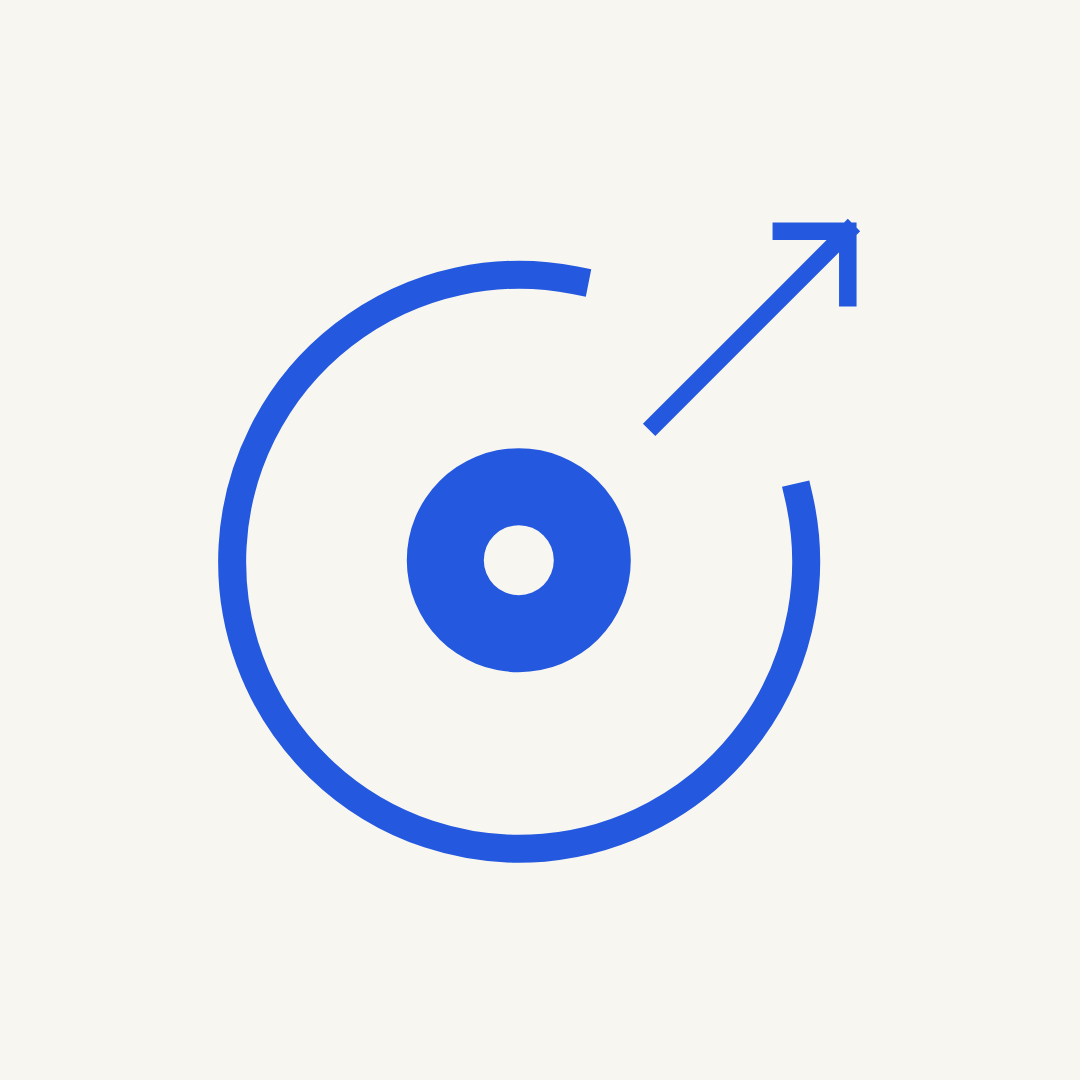
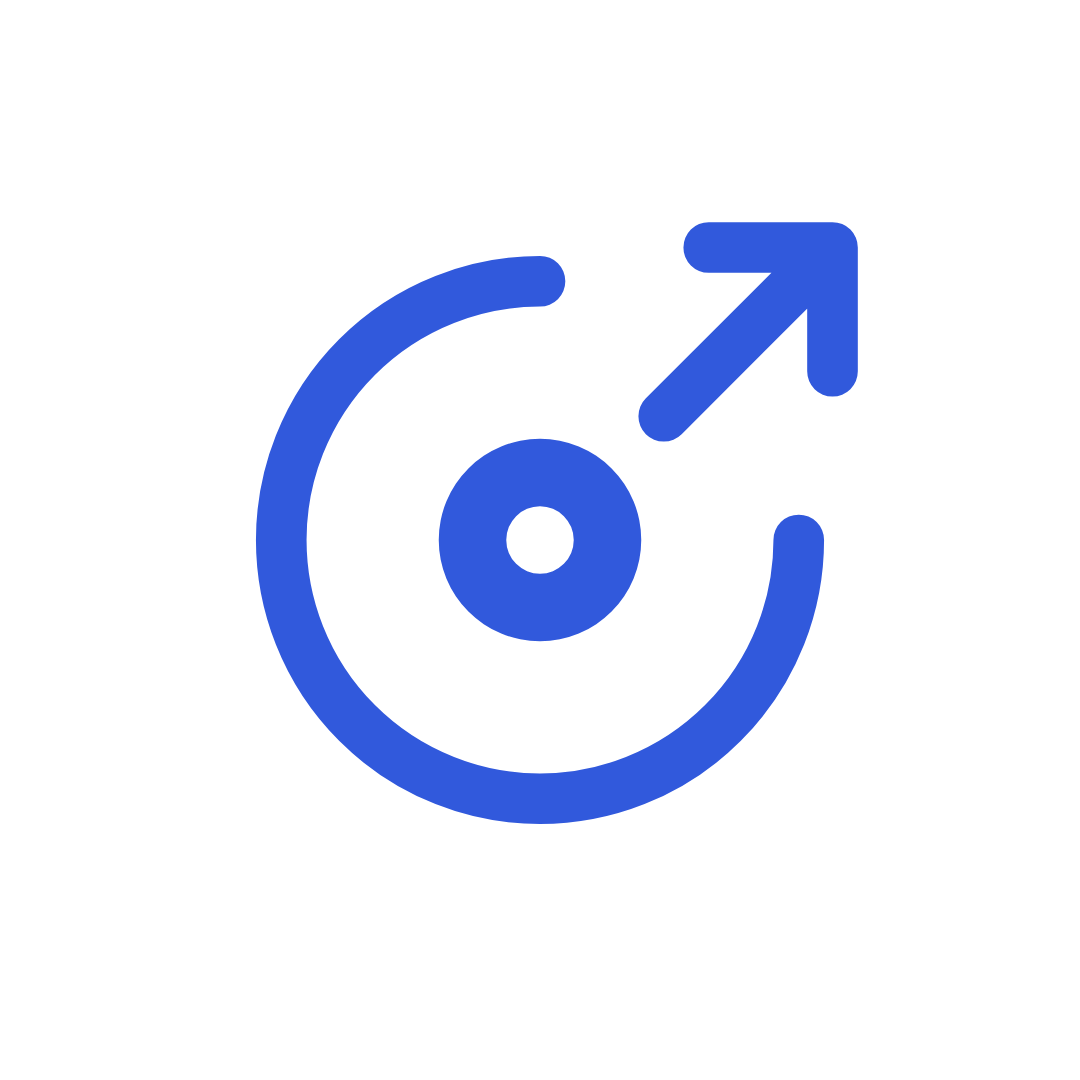
Modernize circular brand and compact site header

diff --git a/como.html b/como.html
@@ -4,11 +4,11 @@
   <meta charset="utf-8"><meta name="viewport" content="width=device-width, initial-scale=1">
   <meta name="description" content="Cómo impulsa OpenSpain sus propuestas: evidencia, competencias, costes, acuerdos y seguimiento.">
   <title>Cómo lo impulsamos — OpenSpain</title>
-  <link rel="icon" href="./favicon.svg" type="image/svg+xml"><link rel="stylesheet" href="./styles.css?v=20261011-contrast"><script type="module" src="./site.js?v=20261011-mobile"></script>
+  <link rel="icon" href="./favicon.svg?v=20261011-wordmark" type="image/svg+xml"><link rel="stylesheet" href="./styles.css?v=20261011-wordmark"><script type="module" src="./site.js?v=20261011-mobile"></script>
 </head>
 <body>
   <a class="skip-link" href="#contenido">Saltar al contenido</a>
-  <header class="site-header"><a class="brand" href="./index.html" aria-label="OpenSpain, inicio"><img src="./openspain-logo.svg" alt="OpenSpain" width="210" height="49"></a><nav aria-label="Navegación principal"><a href="./index.html">Inicio</a><a href="./cambios.html">Cambios</a><a href="./programa.html">Programa</a><a href="./como.html" aria-current="page">Plan de acción</a><a href="./transparencia.html">Transparencia</a><a class="nav-action" href="./participa.html">Participa ↗</a></nav></header>
+  <header class="site-header"><a class="brand" href="./index.html" aria-label="OpenSpain, inicio"><img class="brand-symbol" src="./favicon.svg?v=20261011-wordmark" alt="" width="48" height="48">openspain.</a><nav aria-label="Navegación principal"><a href="./index.html">Inicio</a><a href="./cambios.html">Cambios</a><a href="./programa.html">Programa</a><a href="./como.html" aria-current="page">Plan de acción</a><a href="./transparencia.html">Transparencia</a><a class="nav-action" href="./participa.html">Participa ↗</a></nav></header>
   <main id="contenido">
     <section class="section page-intro compact-intro"><p class="eyebrow">DE LA PROPUESTA AL SIGUIENTE HITO</p><h1>Los cambios <span>hay que explicarlos.</span></h1><p class="page-lead">Qué haremos, en qué plazo y cómo rendiremos cuentas.</p></section>
     <section class="section method-section" id="metodo" aria-labelledby="method-title"><h2 id="method-title">Unir esfuerzos.<br><span>Resolver juntos.</span></h2><p class="section-subtitle">Del problema al acuerdo: evidencia, financiación y evaluación.</p><div class="method-grid"><article><span>01</span><h3>Escuchar y contrastar</h3><p>Definir el problema con datos y con quienes lo viven. Responder a argumentos sin descalificar por ideas o partido.</p></article><article><span>02</span><h3>Diseñar y financiar</h3><p>Identificar competencias, encaje legal, coste y financiación. Comparar alternativas reales.</p></article><article><span>03</span><h3>Construir acuerdos</h3><p>Reconocer aportaciones y registrar discrepancias, responsables y fechas. Sin exigir unanimidad.</p></article><article><span>04</span><h3>Medir y corregir</h3><p>Comprobar resultados y reconocer errores. Cooperar no elimina controles ni responsabilidades.</p></article></div><details class="program-chapter" open><summary>Método completo: evidencia, métricas y presupuesto</summary><div id="method-content" data-program-content="4"></div></details></section>

diff --git a/styles.css b/styles.css
@@ -43,8 +43,10 @@ button:focus-visible, a:focus-visible, input:focus-visible, textarea:focus-visib
   .floating-signup { right: max(12px, env(safe-area-inset-right)); bottom: calc(12px + env(safe-area-inset-bottom)); gap: 10px; padding: 12px 16px; font-size: 13px; }
 }
 @media print { .floating-signup { display: none !important; } }
-.site-header { position: sticky; top: 16px; z-index: 5; max-width: 1320px; width: calc(100% - 48px); margin: 20px auto; min-height: 84px; display: flex; align-items: center; justify-content: space-between; gap: 24px; padding: 14px 28px; border: 1px solid var(--line); border-radius: 24px; background: #fffffff5; backdrop-filter: blur(14px); }
+.site-header { position: sticky; top: 16px; z-index: 5; max-width: 1320px; width: calc(100% - 48px); margin: 20px auto; min-height: 72px; display: flex; align-items: center; justify-content: space-between; gap: 24px; padding: 10px 24px; border: 1px solid var(--line); border-radius: 24px; background: #fffffff5; backdrop-filter: blur(14px); }
 .brand { display: inline-flex; align-items: center; font-size: 28px; font-weight: 800; letter-spacing: -1.5px; }
+.site-header > .brand { gap: 10px; font-size: 34px; letter-spacing: -.06em; line-height: 1; white-space: nowrap; }
+.brand-symbol { display: block; width: 40px; height: 40px; flex-shrink: 0; }
 .brand-light { font-weight: 400; }
 .brand-dot { color: var(--blue); }
 .country-flag { display: block; margin-left: 13px; border-radius: 2px; box-shadow: 0 0 0 1px #15243e12; flex-shrink: 0; }
@@ -76,7 +78,6 @@ h1 > span, h2 > span { font-family: var(--sans); font-weight: 800; font-style: n
 .text-link { font-size: 14px; font-weight: 600; }
 .text-link > span { margin-left: 8px; }
 .text-link:hover { text-decoration: underline; text-underline-offset: 4px; }
-.brand > img { display: block; width: 250px; height: auto; }
 nav a[aria-current="page"]:not(.nav-action) { color: var(--blue); background: #e8eefb; font-weight: 800; }
 nav .nav-action[aria-current="page"] { color: #fff; }
 .page-intro { padding-bottom: 35px; }
@@ -595,9 +596,9 @@ form .button { align-self: flex-start; }
   .evidence-figure { padding: 15px 12px; overflow-x: auto; }
   .evidence-figure svg { width: 560px; max-width: none; }
   .evidence-table table { min-width: 350px; }
-  .site-header { top: 8px; width: calc(100% - 24px); margin-block: 12px; border-radius: 20px; padding-inline: 18px; }
-  .brand > img { width: 220px; }
-  .menu-ready .brand > img { width: clamp(140px, calc(100vw - 150px), 220px); }
+  .site-header { top: 8px; width: calc(100% - 24px); margin-block: 12px; border-radius: 20px; padding-inline: 18px; gap: 8px; }
+  .site-header > .brand { gap: 8px; font-size: clamp(24px, 7vw, 32px); }
+  .brand-symbol { width: 32px; height: 32px; }
   body > main > .hero, .page-intro { width: calc(100% - 24px); margin-top: 12px; padding: 36px 22px; border-radius: 24px; }
   .hero h1 { font-size: clamp(37px, 10vw, 56px); letter-spacing: -.025em; }
   .page-intro h1 { font-size: clamp(36px, 10vw, 54px); letter-spacing: -.025em; }

diff --git a/transparencia.html b/transparencia.html
@@ -4,11 +4,11 @@
   <meta charset="utf-8"><meta name="viewport" content="width=device-width, initial-scale=1">
   <meta name="description" content="Quién impulsa OpenSpain, independencia, financiación y límites. Donaciones no habilitadas.">
   <title>Transparencia — OpenSpain</title>
-  <link rel="icon" href="./favicon.svg" type="image/svg+xml"><link rel="stylesheet" href="./styles.css?v=20261011-contrast"><script type="module" src="./site.js?v=20261011-mobile"></script>
+  <link rel="icon" href="./favicon.svg?v=20261011-wordmark" type="image/svg+xml"><link rel="stylesheet" href="./styles.css?v=20261011-wordmark"><script type="module" src="./site.js?v=20261011-mobile"></script>
 </head>
 <body>
   <a class="skip-link" href="#contenido">Saltar al contenido</a>
-  <header class="site-header"><a class="brand" href="./index.html" aria-label="OpenSpain, inicio"><img src="./openspain-logo.svg" alt="OpenSpain" width="210" height="49"></a><nav aria-label="Navegación principal"><a href="./index.html">Inicio</a><a href="./cambios.html">Cambios</a><a href="./programa.html">Programa</a><a href="./como.html">Plan de acción</a><a href="./transparencia.html" aria-current="page">Transparencia</a><a class="nav-action" href="./participa.html">Participa ↗</a></nav></header>
+  <header class="site-header"><a class="brand" href="./index.html" aria-label="OpenSpain, inicio"><img class="brand-symbol" src="./favicon.svg?v=20261011-wordmark" alt="" width="48" height="48">openspain.</a><nav aria-label="Navegación principal"><a href="./index.html">Inicio</a><a href="./cambios.html">Cambios</a><a href="./programa.html">Programa</a><a href="./como.html">Plan de acción</a><a href="./transparencia.html" aria-current="page">Transparencia</a><a class="nav-action" href="./participa.html">Participa ↗</a></nav></header>
   <main id="contenido">
     <section class="section page-intro compact-intro"><p class="eyebrow">INDEPENDENCIA Y RESPONSABILIDAD</p><h1>También nosotros. <span>Con explicación.</span></h1><p class="page-lead">Iniciativa ciudadana en fase de borrador: no somos un partido constituido, una administración ni un servicio público operativo.</p></section>
     <section class="founder-section" aria-labelledby="founder-title"><div class="founder-identity"><img class="founder-photo" src="./alejandro-acosta.jpg" alt="Retrato de Alejandro Acosta, impulsor de OpenSpain" width="480" height="612" decoding="async"><div><p class="eyebrow">QUIÉN IMPULSA OPENSPAIN</p><h3>Alejandro Acosta</h3><p>Español · Ingeniero de software · Coach</p><small>Presentación facilitada por el impulsor.</small></div></div><div class="founder-message"><h2 id="founder-title">De la queja<br><span>a la acción.</span></h2><p>Convertir preocupaciones en propuestas que se puedan financiar, aplicar y evaluar. El liderazgo inicial no sustituye la revisión técnica ni el debate plural.</p><small>No se afirma respaldo institucional ni credenciales adicionales verificadas por el programa.</small></div></section>

diff --git a/cambios.html b/cambios.html
@@ -4,12 +4,12 @@
   <meta charset="utf-8"><meta name="viewport" content="width=device-width, initial-scale=1">
   <meta name="description" content="Ocho pilares de OpenSpain: corrupción, impuestos, innovación, inversión, talento, simplificación normativa y gasto público, inmigración laboral y vivienda social.">
   <title>Qué queremos cambiar — OpenSpain</title>
-  <link rel="icon" href="./favicon.svg" type="image/svg+xml"><link rel="stylesheet" href="./styles.css?v=20261011-contrast">
+  <link rel="icon" href="./favicon.svg?v=20261011-wordmark" type="image/svg+xml"><link rel="stylesheet" href="./styles.css?v=20261011-wordmark">
   <script type="module" src="./site.js?v=20261011-mobile"></script>
 </head>
 <body>
   <a class="skip-link" href="#contenido">Saltar al contenido</a>
-  <header class="site-header"><a class="brand" href="./index.html" aria-label="OpenSpain, inicio"><img src="./openspain-logo.svg" alt="OpenSpain" width="210" height="49"></a><nav aria-label="Navegación principal"><a href="./index.html">Inicio</a><a href="./cambios.html" aria-current="page">Cambios</a><a href="./programa.html">Programa</a><a href="./como.html">Plan de acción</a><a href="./transparencia.html">Transparencia</a><a class="nav-action" href="./participa.html">Participa ↗</a></nav></header>
+  <header class="site-header"><a class="brand" href="./index.html" aria-label="OpenSpain, inicio"><img class="brand-symbol" src="./favicon.svg?v=20261011-wordmark" alt="" width="48" height="48">openspain.</a><nav aria-label="Navegación principal"><a href="./index.html">Inicio</a><a href="./cambios.html" aria-current="page">Cambios</a><a href="./programa.html">Programa</a><a href="./como.html">Plan de acción</a><a href="./transparencia.html">Transparencia</a><a class="nav-action" href="./participa.html">Participa ↗</a></nav></header>
   <main id="contenido">
     <section class="section page-intro changes-intro"><p class="eyebrow">OCHO PILARES PRÁCTICOS</p><h1>Qué queremos <span>cambiar.</span></h1><p class="page-lead">Ocho prioridades para mejorar España, con medidas concretas y garantías. Propuestas, no reformas aprobadas.</p><a class="text-link" href="./OpenSpain-Programa.pdf" download>Descargar programa completo ↓</a></section>
     <section class="section" id="acciones" aria-labelledby="actions-title"><span id="video-cambios" class="sr-only" aria-hidden="true"></span><h2 id="actions-title" class="sr-only">Ocho pilares. Un programa abierto.</h2><div class="actions-content" data-program-content="actions"><p>Los pilares se cargarán desde el programa. <a href="./PROGRAMA.md">Leer el documento original</a>.</p></div></section>

diff --git a/programa.html b/programa.html
@@ -4,12 +4,12 @@
   <meta charset="utf-8"><meta name="viewport" content="width=device-width, initial-scale=1">
   <meta name="description" content="Explora los 31 ejes del programa ciudadano de OpenSpain: medidas, fuentes, costes pendientes y garantías.">
   <title>Programa ciudadano — OpenSpain</title>
-  <link rel="icon" href="./favicon.svg" type="image/svg+xml"><link rel="stylesheet" href="./styles.css?v=20261011-contrast">
+  <link rel="icon" href="./favicon.svg?v=20261011-wordmark" type="image/svg+xml"><link rel="stylesheet" href="./styles.css?v=20261011-wordmark">
   <script type="module" src="./site.js?v=20261011-mobile"></script><script type="module" src="./app.js?v=20261011-contrast"></script>
 </head>
 <body>
   <a class="skip-link" href="#contenido">Saltar al contenido</a>
-  <header class="site-header"><a class="brand" href="./index.html" aria-label="OpenSpain, inicio"><img src="./openspain-logo.svg" alt="OpenSpain" width="210" height="49"></a><nav aria-label="Navegación principal"><a href="./index.html">Inicio</a><a href="./cambios.html">Cambios</a><a href="./programa.html" aria-current="page">Programa</a><a href="./como.html">Plan de acción</a><a href="./transparencia.html">Transparencia</a><a class="nav-action" href="./participa.html">Participa ↗</a></nav></header>
+  <header class="site-header"><a class="brand" href="./index.html" aria-label="OpenSpain, inicio"><img class="brand-symbol" src="./favicon.svg?v=20261011-wordmark" alt="" width="48" height="48">openspain.</a><nav aria-label="Navegación principal"><a href="./index.html">Inicio</a><a href="./cambios.html">Cambios</a><a href="./programa.html" aria-current="page">Programa</a><a href="./como.html">Plan de acción</a><a href="./transparencia.html">Transparencia</a><a class="nav-action" href="./participa.html">Participa ↗</a></nav></header>
   <main id="contenido">
     <section class="section page-intro compact-intro"><p class="eyebrow">PROGRAMA CIUDADANO / BORRADOR ABIERTO</p><h1>Menos ruido. <span>Más soluciones.</span></h1><p class="page-lead">31 ejes: propuestas, responsables y evaluación. Un borrador abierto, no medidas aprobadas.</p><div class="hero-actions"><a class="button button-dark" href="./OpenSpain-Programa.pdf" download>Descargar programa PDF ↓</a><a class="text-link" href="./OpenSpain-Presentacion.pdf" download>Presentación breve · 1 página ↓</a></div></section>
     <section class="section program-section" id="programa" aria-labelledby="program-title">

diff --git a/participa.html b/participa.html
@@ -4,11 +4,11 @@
   <meta charset="utf-8"><meta name="viewport" content="width=device-width, initial-scale=1">
   <meta name="description" content="Participa en OpenSpain: recibe novedades o prepara una propuesta local. La inscripción no es afiliación ni aval electoral.">
   <title>Participa — OpenSpain</title>
-  <link rel="icon" href="./favicon.svg" type="image/svg+xml"><link rel="stylesheet" href="./styles.css?v=20261011-contrast"><script type="module" src="./site.js?v=20261011-mobile"></script>
+  <link rel="icon" href="./favicon.svg?v=20261011-wordmark" type="image/svg+xml"><link rel="stylesheet" href="./styles.css?v=20261011-wordmark"><script type="module" src="./site.js?v=20261011-mobile"></script>
 </head>
 <body>
   <a class="skip-link" href="#contenido">Saltar al contenido</a>
-  <header class="site-header"><a class="brand" href="./index.html" aria-label="OpenSpain, inicio"><img src="./openspain-logo.svg" alt="OpenSpain" width="210" height="49"></a><nav aria-label="Navegación principal"><a href="./index.html">Inicio</a><a href="./cambios.html">Cambios</a><a href="./programa.html">Programa</a><a href="./como.html">Plan de acción</a><a href="./transparencia.html">Transparencia</a><a class="nav-action" href="./participa.html" aria-current="page">Participa ↗</a></nav></header>
+  <header class="site-header"><a class="brand" href="./index.html" aria-label="OpenSpain, inicio"><img class="brand-symbol" src="./favicon.svg?v=20261011-wordmark" alt="" width="48" height="48">openspain.</a><nav aria-label="Navegación principal"><a href="./index.html">Inicio</a><a href="./cambios.html">Cambios</a><a href="./programa.html">Programa</a><a href="./como.html">Plan de acción</a><a href="./transparencia.html">Transparencia</a><a class="nav-action" href="./participa.html" aria-current="page">Participa ↗</a></nav></header>
   <main id="contenido">
     <section class="section page-intro"><p class="eyebrow">EL SIGUIENTE PASO NO ES UN ESLOGAN.</p><h1>Hazte simpatizante.<br><span>Construyamos juntos.</span></h1><p class="page-lead">Recibe novedades o convierte una preocupación en una propuesta concreta. No necesitas ver ningún vídeo para participar.</p></section>
     <section class="participate" id="participa" aria-labelledby="participate-title">

diff --git a/index.html b/index.html
@@ -6,14 +6,14 @@
   <meta name="theme-color" content="#3159dc">
   <meta name="description" content="OpenSpain: abrir España y ampliar oportunidades. Iniciativa ciudadana independiente, propuestas concretas y rendición de cuentas.">
   <title>OpenSpain — Abrir España. Ampliar oportunidades.</title>
-  <link rel="icon" href="./favicon.svg" type="image/svg+xml">
-  <link rel="stylesheet" href="./styles.css?v=20261011-contrast">
+  <link rel="icon" href="./favicon.svg?v=20261011-wordmark" type="image/svg+xml">
+  <link rel="stylesheet" href="./styles.css?v=20261011-wordmark">
   <script type="module" src="./site.js?v=20261011-mobile"></script>
 </head>
 <body data-page="home">
   <a class="skip-link" href="#contenido">Saltar al contenido</a>
   <header class="site-header">
-    <a class="brand" href="./index.html" aria-label="OpenSpain, inicio"><img src="./openspain-logo.svg" alt="OpenSpain" width="210" height="49"></a>
+    <a class="brand" href="./index.html" aria-label="OpenSpain, inicio"><img class="brand-symbol" src="./favicon.svg?v=20261011-wordmark" alt="" width="48" height="48">openspain.</a>
     <nav aria-label="Navegación principal"><a href="./index.html" aria-current="page">Inicio</a><a href="./cambios.html">Cambios</a><a href="./programa.html">Programa</a><a href="./como.html">Plan de acción</a><a href="./transparencia.html">Transparencia</a><a class="nav-action" href="./participa.html">Participa ↗</a></nav>
   </header>
   <main id="contenido">

diff --git a/README.md b/README.md
@@ -28,7 +28,7 @@ Las seis páginas incluyen un enlace flotante «Hazte simpatizante» a `particip
 
 En móvil y tablet, un botón «Menú» despliega los seis enlaces sin desplazamiento horizontal, con estado accesible y cierre mediante Escape. Sin JavaScript se conserva la navegación visible. Las flechas de enlaces y botones se muestran como SVG monocromos, no como caracteres que puedan convertirse en emojis del sistema.
 
-La cabecera utiliza un logo de 250 píxeles, ajustado entre 140 y 220 en móvil para dejar espacio al menú, navegación de 16 píxeles y estado activo en cápsula; «Plan de acción» enlaza a `como.html`. Los pilares y ejes destacan números grandes en azul, con filtros de la misma marca. «Participa» es la acción principal: azul sobre claro y blanco sobre azul; los botones secundarios usan borde. El cierre azul contrasta con el pie oscuro, manteniendo una composición compacta.
+La cabecera combina el símbolo circular azul, de trazo grueso y redondeado, con «openspain.» en Manrope de peso 800, sin bandera. Comparte el símbolo de `favicon.svg`: mide 40 píxeles en escritorio y 32 en móvil; el nombre pasa de 34 a 24–32 píxeles para dejar espacio al menú. La navegación utiliza 16 píxeles y estado activo en cápsula; «Plan de acción» enlaza a `como.html`. Los pilares y ejes destacan números grandes en azul, con filtros de la misma marca. «Participa» es la acción principal: azul sobre claro y blanco sobre azul; los botones secundarios usan borde. El cierre azul contrasta con el pie oscuro, manteniendo una composición compacta.
 
 El lema de portada es «Abrir España. Ampliar oportunidades.», compartido por la web y el programa PDF. «Open» conecta apertura a personas, ideas y propuestas con menos barreras para vivir y crear y transparencia sobre decisiones y dinero público. Al cambiarlo, actualiza también título y descripción de la web y regenera el PDF.
 
@@ -64,9 +64,9 @@ GitHub Pages sirve los archivos; no ejecuta `npm start` ni genera el PDF. Regene
 
 ## Logo para formularios
 
-`openspain-logo.png` es el logo horizontal con fondo transparente (2400 × 560 píxeles), listo para usar en formularios externos. `openspain-logo.svg` conserva la versión vectorial editable; el texto usa la familia tipográfica del sitio y puede variar si no está instalada. La web publicada sirve ambos archivos desde su raíz.
+`openspain-logo.png` es el logo horizontal anterior con fondo transparente (2400 × 560 píxeles) y bandera, disponible para formularios externos. `openspain-logo.svg` conserva su versión vectorial editable. Estos archivos y la variante clara utilizada en los vídeos no se han rediseñado con el cambio de cabecera. La web publicada sirve ambos archivos desde su raíz.
 
-`openspain-instagram.png` es la variante de perfil de 1080 × 1080, con el símbolo azul original centrado sobre marfil y margen para recorte circular. `openspain-instagram.svg` conserva la fuente. El PNG puede descargarse desde `/openspain-instagram.png`; no incluye texto pequeño ni datos personales.
+`openspain-instagram.png` es la variante de perfil de 1080 × 1080, con el nuevo símbolo azul `#3159dc` sobre blanco y margen para recorte circular. `openspain-instagram.svg` conserva la fuente, con la misma geometría que el favicon y la cabecera. El PNG puede descargarse desde `/openspain-instagram.png`; no incluye texto pequeño ni datos personales.
 
 ## Contenido y datos
 
